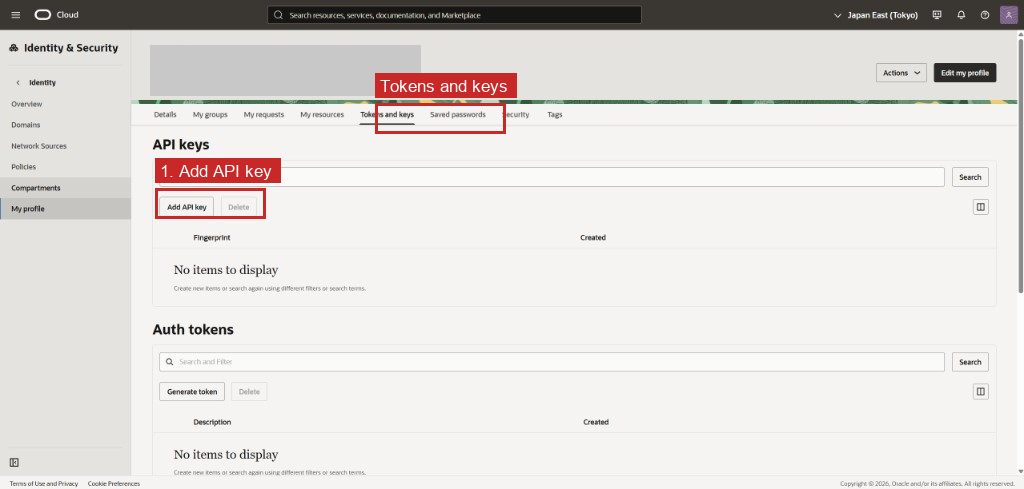
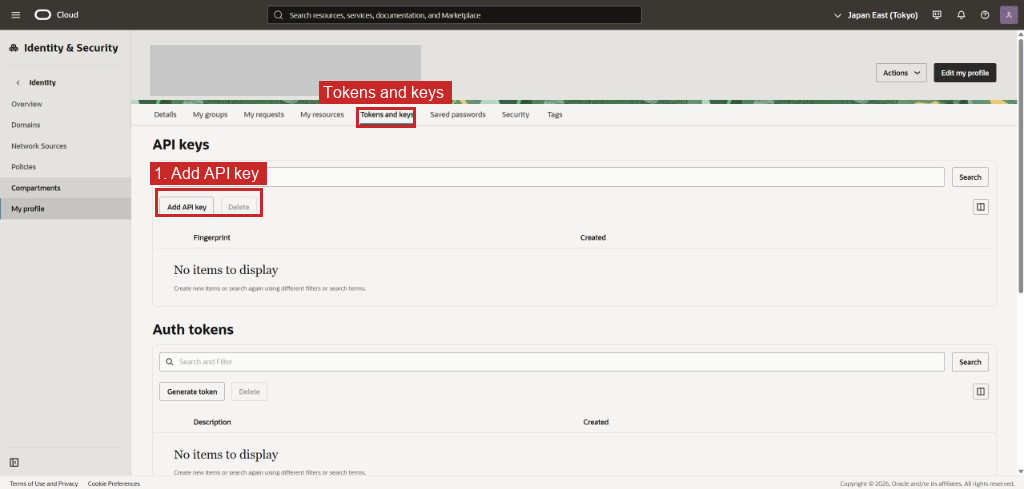
Realign MinorWire OCI guide screenshot callouts.
Tighten Tokens/Generate/Add/Fingerprint/Close boxes and fix PAYG menu path annotations so guide steps match the console UI.

Changed region(s): [[0.3125, 0.1227, 0.5312, 0.2761], [0.125, 0.3067, 0.2812, 0.4601]]

diff --git a/scripts/blur_api_guide.py b/scripts/blur_api_guide.py
@@ -32,74 +32,72 @@ def solid(im: Image.Image, box, color=(210, 210, 210)) -> None:
 
 
 def callout(im: Image.Image, box, text: str, tag_above: bool = True) -> None:
-    """Outline a UI control; put the text label outside so the button stays readable."""
     d = ImageDraw.Draw(im)
     d.rectangle(box, outline=(200, 40, 40), width=3)
     try:
-        font = ImageFont.truetype("arial.ttf", 17)
+        font = ImageFont.truetype("arial.ttf", 16)
     except Exception:
         font = ImageFont.load_default()
-    tw = int(font.getlength(text)) + 14
-    th = 24
+    tw = int(font.getlength(text)) + 12
+    th = 22
     if tag_above:
-        ly0 = max(0, box[1] - th - 6)
+        ly0 = max(0, box[1] - th - 4)
     else:
-        ly0 = min(im.height - th, box[3] + 6)
-    lx0 = max(0, min(box[0], im.width - tw))
+        ly0 = min(im.height - th, box[3] + 4)
+    # Center label over the outline when it fits; otherwise clamp to image
+    box_mid = (box[0] + box[2]) // 2
+    lx0 = max(0, min(box_mid - tw // 2, im.width - tw))
     d.rectangle((lx0, ly0, lx0 + tw, ly0 + th), fill=(200, 40, 40))
-    d.text((lx0 + 5, ly0 + 3), text, fill=(255, 255, 255), font=font)
+    d.text((lx0 + 4, ly0 + 2), text, fill=(255, 255, 255), font=font)
 
 
 # --- 1) Tokens and keys ---
 im = Image.open(asset("image-a09ba6bb-f861-4a3d-9512-5cae7cb43b57.png")).convert("RGB")
-# Fully obscure display name
 solid(im, (150, 45, 420, 95), (200, 200, 200))
 mosaic(im, (150, 45, 420, 95), block=6)
-# Tokens and keys tab (active underline)
-callout(im, (375, 103, 505, 133), "Tokens and keys")
-# Add API key only (not Delete)
-callout(im, (155, 188, 265, 218), "1. Add API key")
+# Active-tab underline is x=359..414; keep box on Tokens only (not Saved passwords)
+callout(im, (356, 107, 415, 127), "Tokens and keys")
+callout(im, (155, 188, 262, 216), "1. Add API key")
 im.save(os.path.join(OUT, "api-01-tokens-and-keys.png"), optimize=True)
 print("api-01")
 
 # --- 2) Add API key dialog ---
 im = Image.open(asset("image-45f39f63-d1a8-464e-b87c-9c971d9c05ac.png")).convert("RGB")
-callout(im, (32, 208, 275, 238), "2. Generate API key pair")
-# Left download tile — keep title readable
+callout(im, (14, 196, 216, 226), "2. Generate API key pair")
 callout(im, (38, 370, 505, 560), "3. Download private key (click this card)")
-# Outline Add; put the caption to the LEFT so the disabled Add label stays readable
+# Disabled Add button fill is approx x=913..982, y=677..723
 d = ImageDraw.Draw(im)
-add_box = (908, 704, 985, 732)
+add_box = (912, 676, 986, 724)
 d.rectangle(add_box, outline=(200, 40, 40), width=3)
 try:
-    font = ImageFont.truetype("arial.ttf", 16)
+    font = ImageFont.truetype("arial.ttf", 15)
 except Exception:
     font = ImageFont.load_default()
 cap = "4. Add (after .pem download)"
 tw = int(font.getlength(cap)) + 12
-lx0 = max(40, 900 - tw)
-d.rectangle((lx0, 704, lx0 + tw, 726), fill=(200, 40, 40))
-d.text((lx0 + 4, 706), cap, fill=(255, 255, 255), font=font)
+box_mid = (add_box[0] + add_box[2]) // 2
+lx0 = max(40, min(box_mid - tw // 2, im.width - tw))
+ly0 = add_box[1] - 26
+d.rectangle((lx0, ly0, lx0 + tw, ly0 + 22), fill=(200, 40, 40))
+d.text((lx0 + 4, ly0 + 2), cap, fill=(255, 255, 255), font=font)
 im.save(os.path.join(OUT, "api-02-add-api-key.png"), optimize=True)
 print("api-02")
 
-# --- 3) Configuration file preview (source with visible Copy) ---
+# --- 3) Configuration file preview ---
 im = Image.open(asset("image-fb5fd5ae-2986-4111-acfd-c9e80fb50c45.png")).convert("RGB")
-# Blur secrets only; keep UI chrome / Copy / Close / region readable
-# Coords from grid overlay on this 1024x563 asset
-mosaic(im, (50, 95, 500, 125), block=9)  # fingerprint hex
-mosaic(im, (90, 155, 980, 178), block=9)  # user=
-mosaic(im, (150, 178, 500, 200), block=9)  # fingerprint=
-mosaic(im, (110, 200, 980, 222), block=9)  # tenancy=
-mosaic(im, (230, 225, 755, 255), block=9)  # single-line preview secrets
-callout(im, (40, 80, 520, 135), "Fingerprint — copy this")
-callout(im, (40, 145, 720, 230), "user= / tenancy= / region=")
-callout(im, (760, 215, 835, 250), "Copy")
-callout(im, (920, 515, 995, 548), "Close")
+# Secrets only
+mosaic(im, (55, 100, 500, 128), block=9)
+mosaic(im, (85, 158, 980, 180), block=9)
+mosaic(im, (145, 180, 500, 202), block=9)
+mosaic(im, (105, 202, 980, 224), block=9)
+mosaic(im, (230, 226, 755, 256), block=9)
+# Config text starts ~x=25; start at left edge so values are fully enclosed
+callout(im, (0, 82, 545, 142), "Fingerprint — copy this")
+callout(im, (0, 145, 765, 252), "user= / tenancy= / region=")
+callout(im, (768, 218, 840, 252), "Copy")
+# Close button border is x=965..1003, y=527..551
+callout(im, (962, 524, 1006, 554), "Close")
 im.save(os.path.join(OUT, "api-03-config-preview.png"), optimize=True)
 print("api-03")
 
-for name in os.listdir(OUT):
-    if name.startswith("_"):
-        os.remove(os.path.join(OUT, name))
 print("done")

diff --git a/scripts/blur_upgrade_guide.py b/scripts/blur_upgrade_guide.py
@@ -37,7 +37,8 @@ def callout(im: Image.Image, box, text: str, tag_above: bool = True) -> None:
     tw = int(font.getlength(text)) + 12
     th = 24
     ly0 = max(0, box[1] - th - 4) if tag_above else min(im.height - th, box[3] + 4)
-    lx0 = max(0, min(box[0], im.width - tw))
+    box_mid = (box[0] + box[2]) // 2
+    lx0 = max(0, min(box_mid - tw // 2, im.width - tw))
     d.rectangle((lx0, ly0, lx0 + tw, ly0 + th), fill=(200, 40, 40))
     d.text((lx0 + 4, ly0 + 3), text, fill=(255, 255, 255), font=font)
 
@@ -47,19 +48,14 @@ im = Image.open(asset("image-887a4d46-fbf8-4d13-b73b-9d406f27296c.png")).convert
 # Blur Name / Email / Address value column in Account details
 mosaic(im, (440, 500, 1000, 680), block=8)
 
-# Menu path callouts
-callout(im, (10, 55, 285, 95), "1. Billing & Cost Management")
-callout(im, (15, 165, 120, 195), "2. Billing")
-callout(im, (12, 355, 275, 395), "3. Upgrade and Manage Payment")
-
-# After upgrade: Pay As You Go
-callout(im, (450, 330, 620, 365), "Plan type: Pay As You Go")
+# Menu path — measured from source pixels
+# BCM icon+text (two lines) ~ y84-132; Billing "< Billing" ~ y180-200;
+# selected Upgrade row ~ y374-414; "Pay As You Go" ~ x515-600 y353-365
+callout(im, (2, 84, 248, 136), "1. Billing & Cost Management")
+callout(im, (18, 178, 102, 202), "2. Billing")
+callout(im, (6, 374, 255, 412), "3. Upgrade and Manage Payment")
+callout(im, (512, 350, 610, 372), "Plan type: Pay As You Go")
 
 out = os.path.join(OUT, "signup-04-upgrade-payg.png")
 im.save(out, optimize=True)
 print("saved", out, im.size)
-
-for name in os.listdir(OUT):
-    if name.startswith("_"):
-        os.remove(os.path.join(OUT, name))
-print("cleaned")
